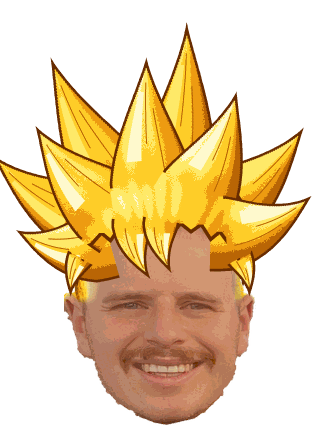
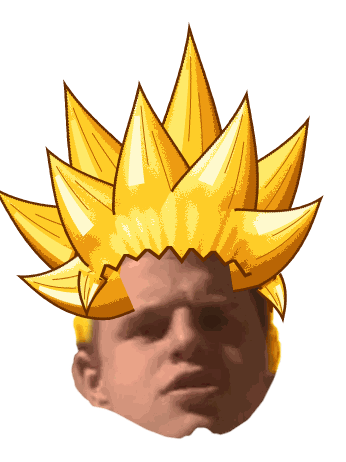
FAM JAM: Carl wears his scowl while he's on fire
- Carl's on-fire head is now a different photo of him (the scowl), cut
  out, colour-matched and lined up on his normal head so it sits in the
  same place at the same size, with the gold spiky hair (no bangs, so
  the furrowed brows show). It comes in at the power-up flash and stays
  for as long as he's on fire; he's back to his normal face when he
  cools off.
- The free-throw-line dunk's tongue comes out of that face's own mouth
  (HW.MOUTH_SSJ).
- Face images now carry the sprites' version tag, so phones pick up a
  replaced face; SHEET_V v=15, code v=17.

Claude-Session: https://claude.ai/code/session_01ToiDsSQnaqBjUawR2EXcU4

diff --git a/famjam/js/gfx.js b/famjam/js/gfx.js
@@ -186,7 +186,7 @@ window.HW = window.HW || {};
 
   /* ---------- sprites ---------- */
   // bump when sprite sheets are re-rendered under the same names, so a phone fetches the new image and frame data together
-  var SHEET_V = '?v=14';
+  var SHEET_V = '?v=15';   // (the faces carry it too)
   var sheets = {}, faces = {};
   X.loadPlayer = function (id) {
     if (sheets[id]) return sheets[id].ready;
@@ -215,7 +215,7 @@ window.HW = window.HW || {};
     var f = faces[id] = { front: new Image(), back: new Image() };
     // players with a real photo get their cut-out face (faces/<id>_photo.png) up front; the back of the head is always rendered
     var photo = HW.PLAYERS[id] && HW.PLAYERS[id].photo;
-    f.ready = Promise.all(['front', 'back'].map(function (k) { return new Promise(function (res) { f[k].onload = res; f[k].onerror = res; f[k].src = 'faces/' + id + '_' + (k === 'front' && photo ? 'photo' : k) + '.png'; }); }));
+    f.ready = Promise.all(['front', 'back'].map(function (k) { return new Promise(function (res) { f[k].onload = res; f[k].onerror = res; f[k].src = 'faces/' + id + '_' + (k === 'front' && photo ? 'photo' : k) + '.png' + SHEET_V; }); }));
     return f.ready;
   };
   X.face = function (id) { return faces[id]; };
@@ -223,8 +223,8 @@ window.HW = window.HW || {};
   // HW.SSJ_PAD[_BACK] say where the photo's top-left corner sits in the bigger canvas
   function loadGold(id) {
     var f = faces[id]; if (!f || f.ssj) return;
-    if (HW.PLAYERS[id].photo && HW.SSJ_PAD && HW.SSJ_PAD[id]) { f.ssj = new Image(); f.ssjPad = HW.SSJ_PAD[id]; f.ssj.src = 'faces/' + id + '_ssj.png'; }
-    if (HW.SSJ_PAD_BACK && HW.SSJ_PAD_BACK[id]) { f.ssjBack = new Image(); f.ssjPadBack = HW.SSJ_PAD_BACK[id]; f.ssjBack.src = 'faces/' + id + '_ssj_back.png'; }
+    if (HW.PLAYERS[id].photo && HW.SSJ_PAD && HW.SSJ_PAD[id]) { f.ssj = new Image(); f.ssjPad = HW.SSJ_PAD[id]; f.ssj.src = 'faces/' + id + '_ssj.png' + SHEET_V; }
+    if (HW.SSJ_PAD_BACK && HW.SSJ_PAD_BACK[id]) { f.ssjBack = new Image(); f.ssjPadBack = HW.SSJ_PAD_BACK[id]; f.ssjBack.src = 'faces/' + id + '_ssj_back.png' + SHEET_V; }
   }
 
   var HEAD_M = 0.56;   // big digitized head width in meters (arcade proportions)
@@ -271,7 +271,7 @@ window.HW = window.HW || {};
         g.drawImage(ls, -hw / 2 + mo2[0] * hw - lw / 2, -hh * 0.8 + mo2[1] * hh - lh * 0.55, lw, lh); g.restore(); g.imageSmoothingEnabled = sm2;
       }
       if (p.tongue && !rot && f && (img === f.front || img === f.ssj)) {   // tongue hanging out of his mouth (the free-throw-line dunk), pixel art like the sprites
-        var mo = HW.MOUTH && HW.MOUTH[p.id] || [0.5, 0.8], fw0 = hw / hs, ts = tongueSprite(), tw = fw0 * 0.2, th = tw * ts.height / ts.width;
+        var mo = img === f.ssj && HW.MOUTH_SSJ && HW.MOUTH_SSJ[p.id] || HW.MOUTH && HW.MOUTH[p.id] || [0.5, 0.8], fw0 = hw / hs, ts = tongueSprite(), tw = fw0 * 0.2, th = tw * ts.height / ts.width;
         var smooth = g.imageSmoothingEnabled; g.imageSmoothingEnabled = false;
         g.drawImage(ts, hx - hw / 2 + mo[0] * hw - tw / 2, hy - hh * 0.8 + mo[1] * hh - th * 0.12, tw, th); g.imageSmoothingEnabled = smooth;
       }

diff --git a/famjam/index.html b/famjam/index.html
@@ -23,7 +23,7 @@
 <link rel="preconnect" href="https://fonts.googleapis.com">
 <link rel="preconnect" href="https://fonts.gstatic.com" crossorigin>
 <link href="https://fonts.googleapis.com/css2?family=Press+Start+2P&display=swap" rel="stylesheet">
-<link rel="stylesheet" href="css/jam.css?v=16">
+<link rel="stylesheet" href="css/jam.css?v=17">
 </head>
 <body>
 <canvas id="game"></canvas>
@@ -36,15 +36,15 @@
 </div>
 <div id="rotate"><div>&#x21bb;</div>TURN YOUR PHONE SIDEWAYS</div>
 <!-- ?v= on the code: bump it with every update, so a phone that kept an old copy of a file fetches the new one -->
-<script src="js/data.js?v=16"></script>
-<script src="js/audio.js?v=16"></script>
-<script src="js/font.js?v=16"></script>
-<script src="js/gfx.js?v=16"></script>
-<script src="js/crowd.js?v=16"></script>
-<script src="js/game.js?v=16"></script>
-<script src="js/ai.js?v=16"></script>
-<script src="js/net.js?v=16"></script>
-<script src="js/ui.js?v=16"></script>
-<script src="js/main.js?v=16"></script>
+<script src="js/data.js?v=17"></script>
+<script src="js/audio.js?v=17"></script>
+<script src="js/font.js?v=17"></script>
+<script src="js/gfx.js?v=17"></script>
+<script src="js/crowd.js?v=17"></script>
+<script src="js/game.js?v=17"></script>
+<script src="js/ai.js?v=17"></script>
+<script src="js/net.js?v=17"></script>
+<script src="js/ui.js?v=17"></script>
+<script src="js/main.js?v=17"></script>
 </body>
 </html>

diff --git a/famjam/js/data.js b/famjam/js/data.js
@@ -54,8 +54,10 @@ window.HW = window.HW || {};
   // [x, y] = where the original image's top-left corner sits inside the bigger powered-up canvas, in original-image pixels
   // where each photo's mouth is (fraction of the photo across, down): the tongue on the free-throw-line dunk comes out here
   HW.MOUTH = { carl: [0.50, 0.80], tyler: [0.50, 0.76], alan: [0.52, 0.74], lisa: [0.60, 0.82], bianca: [0.46, 0.78], katelyn: [0.58, 0.83], kameron: [0.47, 0.81], kody: [0.55, 0.77], kenny: [0.50, 0.79], karen: [0.60, 0.81] };
+  // and where the mouth is on a powered-up face that's a different photo from the normal one (Carl's scowl), same units
+  HW.MOUTH_SSJ = { carl: [0.59, 0.72] };
   HW.SSJ_PAD = {
-    carl: [64, 180],
+    carl: [80, 198],   // his on-fire face is another photo (the scowl), lined up on his head
     tyler: [63, 176],
     alan: [57, 165],
     lisa: [21, 161],

diff --git a/famjam/README.md b/famjam/README.md
@@ -49,7 +49,7 @@ Like the arcade originals, players are flat sprites (digitized frames) with a bi
 
 - **Bodies**: `tools/gen.html` poses the realistic athlete body from `../hoops` through every move (run, dribble, jump shot, dunk, pass, steal, shove, fall, celebrate) in three facings and saves sprite sheets to `sprites/<id>.png` + `<id>.json` (frame anchors for the feet, head and hands).
 - **Extras** (`sprites/<id>_x.png/.json`, a second sheet per player): the power-up (`powerup`, straight at the camera), the pumped-up `idle_buff`, `run_buff`, `drun_buff` and `dribble_buff`, and the taunts (`*_point`, `*_chopU`, `*_chopD`). The muscle pump scales bones in the skinned body while it renders (`BUFF` in gen.html).
-- **Gold hair**: `faces/<id>_ssj.png` and `_ssj_back.png` are the photo heads with the hair turned gold and spiked up; `HW.SSJ_PAD` in `js/data.js` says where the photo sits in the bigger canvas.
+- **Gold hair**: `faces/<id>_ssj.png` and `_ssj_back.png` are the photo heads with the hair turned gold and spiked up; `HW.SSJ_PAD` in `js/data.js` says where the photo sits in the bigger canvas. Carl's on-fire head is a different photo, his scowl, lined up on his normal head (same size and place), so he wears that face for as long as he's on fire; `HW.MOUTH_SSJ` puts the free-throw-line dunk's tongue on its mouth. The faces carry the sprites' version tag (`SHEET_V`).
 - **Heads**: every player's face is cut out of a real photo (`faces/<id>_photo.png`, used for players with `photo: true` in `js/data.js`); the back of the head (`faces/<id>_back.png`) is rendered from the 3D head. A player without `photo: true` gets a rendered `faces/<id>_front.png` instead.
 
 Rebuild the sprites after changing a player's look in `js/data.js` (`HW.PLAYERS` and `LOOK`; the athlete body itself comes from `../hoops/js/`). Needs Playwright:
@@ -104,6 +104,6 @@ famjam/tools                sprite factory
 
 `?quick` in the URL jumps straight to a matchup.
 
-The code files in `index.html` carry a version tag (`?v=16`). Bump it with every update so phones fetch the new code instead of a saved copy, the same as `SHEET_V` and `SFX_V`.
+The code files in `index.html` carry a version tag (`?v=17`). Bump it with every update so phones fetch the new code instead of a saved copy, the same as `SHEET_V` and `SFX_V`.
 
 The menus play one of two songs, a coin flip each time they come up: "Bang Bang" by Matt Large or "Talk About It" (instrumental) by Ira Moon (Epidemic Sound, supplied by the owner; `sfx/menu_music.mp3`, `sfx/menu_music2.mp3`, streamed through an `<audio>` element into the mix), starting on the first tap and fading out at tip-off; from the final buzzer through the stats screen it's "Plenty Bands" (instrumental) by Enophi (`sfx/post_music.mp3`), crossfading back to the menu music on the way out. The background crowd alternates two Epidemic Sound arena clips (`sfx/crowd_a.mp3`, `sfx/crowd_b.mp3`, supplied by the owner) with a 1 s crossfade; the basket cheer (`sfx/cheer_made.mp3`, an arena crowd trimmed so it is already roaring when the ball drops) and the net on a made jump shot (`sfx/net0-11.mp3`, goal-in-basket and net-rustle takes) is from Epidemic Sound too, every shove comes with an attack yell (`sfx/shove_f0-2.mp3` for the women, `sfx/shove_m0-7.mp3` for the men) and, when it lands, a punch to the face (`sfx/hit0-3.mp3`, also on every knockdown); a knocked-down player hits the floor with a body landing on boards (`sfx/land.mp3`), and a guy sent flying 3+ m (or hammered to midcourt) screams on the way (`sfx/scream.mp3`). Powering up, the guys yell (`sfx/yell0-6.mp3`, anime battle yells, each lined up so its loudest moment lands on the blast) and the women let out a warrior's battle scream through the whole transformation (`sfx/yell_f0.mp3`), over a fireball whoosh that swells into the blast for everyone (`sfx/fireball0-1.mp3`). After a dunk a guy shouts "woo-hoo!" (`sfx/shout0.mp3`), a guy who knocks someone down talks trash now and then (explicit, `sfx/trash0-1.mp3`; never on a block - blocks have no voices), a woman who takes a hit grunts (`sfx/pain_f0-3.mp3`), a thief laughs like a cartoon bad guy after some steals (`sfx/laugh0.mp3`), a guy left on the floor by a hard hit sometimes calls for help (`sfx/help0-8.mp3`), a guy on defense yells "incoming!" when a dunker takes off from way out (`sfx/incoming0-3.mp3`; every time when he's on fire, at most once every 10 s) - those spoken lines take turns, never talking over each other - a guy goes "hup!" taking off for a dunk or jumping to block (`sfx/hup0-3.mp3`), a badly mistimed shot that misses gets an "ew!" (`sfx/ew0-2.mp3`), a posterizer or a shattered backboard gets a "wow!" in place of the woo-hoo (`sfx/wow0-5.mp3`), going on fire gets an excited "oh!" (`sfx/happy0-2.mp3`), a fan yells "baba booey!" after a made three - always the first of the game, then about 1 in 3 (`sfx/baba0-2.mp3`) - and at the final buzzer a guy on the winning team whoops "yeah!" (`sfx/shout1.mp3`). The trick-pass whoosh (`sfx/pass_whoosh.mp3`, on every fancy pass as the ball leaves the hand), the steal swipes (`sfx/steal1.wav`, `sfx/steal2.wav`, taking turns on every attempt) and the dribble bounces (`sfx/dribble0-3.wav`, WAV so there is no encoder delay and each thump lands on the frame the ball touches the floor) are from Epidemic Sound, supplied by the owner, and so are the dunk slams (`sfx/dunk0-4.wav`, five rim hits with the rim ringing, never the same one twice running) and the catch taps on passes, interceptions and rebounds (`sfx/catch0-1.wav`). Each tip-off starts with a recorded referee whistle (`sfx/whistle.mp3`, Epidemic Sound): two short blasts, then the long one right on GO. Sound URLs carry a version tag (`SFX_V` in `audio.js`), and so do the sprite sheets (`SHEET_V` in `gfx.js`); bump it when a file is replaced under the same name so phones don't keep a saved copy. The other recorded sounds in `sfx/` (announcer voice and impacts) are from Kenney.nl, CC0 public domain (see `sfx/LICENSE-kenney-CC0.txt`).
